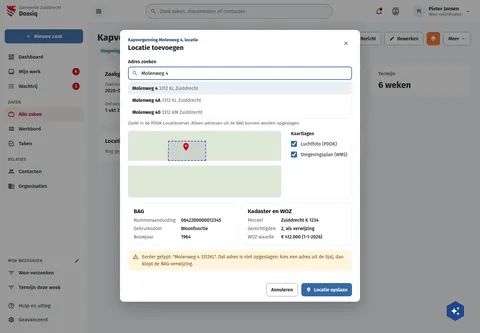
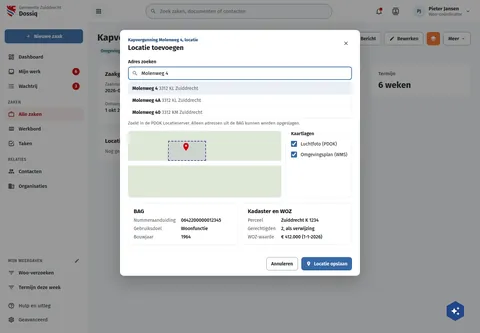
fix(screens): DqZaakLocatie draws no 'Eerder getypt' warning live cannot show
Assisted-by: ClaudeCode:claude-opus-5-5

Changed region(s): [[0.25, 0.7508, 0.75, 0.9309]]

diff --git a/preview/screens/boards/DqZaakLocatie.html b/preview/screens/boards/DqZaakLocatie.html
@@ -154,7 +154,7 @@ a{color:var(--sc-primary, #3669a5)}a:hover{color:var(--sc-primary-deep, #234a78)
         <div style="display: flex; flex-direction: column; gap: 4px"><span style="font-size: 13px; font-weight: 700; color: var(--sc-primary-deep, #234a78)">Kapvergunning Molenweg 4, locatie</span><h2 id="dlg-titel" style="margin: 0; font-size: 20px; font-weight: 700">Locatie toevoegen</h2></div>
         <button type="button" aria-label="Sluiten" style="width: 36px; height: 36px; border: 0; border-radius: 18px; background: transparent; color: var(--sc-work-text, #3d4047); display: inline-flex; align-items: center; justify-content: center"><svg width="18" height="18" viewbox="0 0 24 24" fill="currentColor" aria-hidden="true"><path d="M19,6.41L17.59,5L12,10.59L6.41,5L5,6.41L10.59,12L5,17.59L6.41,19L12,13.41L17.59,19L19,17.59L13.41,12L19,6.41Z"></path></svg></button>
       </div>
-      <div style="padding: 18px 24px 20px; display: flex; flex-direction: column; gap: 16px"><div style="display: flex; flex-direction: column; gap: 6px"><label style="font-size: 14px; font-weight: 600">Adres zoeken</label><div style="position: relative"><input type="search" value="Molenweg 4" style="box-sizing: border-box; width: 100%; height: 40px; padding: 0 12px 0 38px; border: 2px solid var(--sc-primary, #3669a5); border-radius: 8px; font: 400 15px var(--sc-font, 'Fira Sans'), sans-serif"><svg width="18" height="18" viewbox="0 0 24 24" fill="#5e6168" style="position: absolute; left: 12px; top: 11px;fill:var(--sc-work-muted, #5e6168)"><path d="M9.5,3A6.5,6.5 0 0,1 16,9.5C16,11.11 15.41,12.59 14.44,13.73L14.71,14H15.5L20.5,19L19,20.5L14,15.5V14.71L13.73,14.44C12.59,15.41 11.11,16 9.5,16A6.5,6.5 0 0,1 3,9.5A6.5,6.5 0 0,1 9.5,3M9.5,5C7,5 5,7 5,9.5C5,12 7,14 9.5,14C12,14 14,12 14,9.5C14,7 12,5 9.5,5Z"></path></svg></div><ul role="listbox" style="margin: 0; padding: 0; list-style: none; border: 1px solid var(--sc-work-line, #e4e6ea); border-radius: 8px; overflow: hidden"><li style="padding: 9px 12px; border-top: 1px solid var(--sc-work-soft, #eef0f3); background: var(--sc-primary-light, #eaf0f7); font-size: 14px"><strong>Molenweg 4</strong> <span style="color: var(--sc-work-muted, #5e6168)">3312 KL Zuiddrecht</span></li><li style="padding: 9px 12px; border-top: 1px solid var(--sc-work-soft, #eef0f3);  font-size: 14px"><strong>Molenweg 4A</strong> <span style="color: var(--sc-work-muted, #5e6168)">3312 KL Zuiddrecht</span></li><li style="padding: 9px 12px; border-top: 1px solid var(--sc-work-soft, #eef0f3);  font-size: 14px"><strong>Molenweg 40</strong> <span style="color: var(--sc-work-muted, #5e6168)">3312 KM Zuiddrecht</span></li></ul><span style="font-size: 13px; color: var(--sc-work-muted, #5e6168)">Zoekt in de PDOK Locatieserver. Alleen adressen uit de BAG kunnen worden opgeslagen.</span></div><div style="display: grid; grid-template-columns: minmax(0, 1fr) 200px; gap: 12px"><div role="img" aria-label="Kaart met het perceel Molenweg 4 en een pin" style="position: relative; height: 200px; border-radius: 8px; background: #dfe8d8; overflow: hidden"><span style="position: absolute; left: 0; right: 0; top: 90px; height: 14px; background: #ffffff"></span><span style="position: absolute; left: 120px; top: 30px; width: 110px; height: 56px; border: 2px dashed #4a3f8f; background: rgba(74,63,143,0.12)"></span><span style="position: absolute; left: 160px; top: 34px; color: var(--sc-accent, #cc0000)"><svg width="28" height="28" viewbox="0 0 24 24" fill="currentColor" aria-hidden="true"><path d="M12,11.5A2.5,2.5 0 0,1 9.5,9A2.5,2.5 0 0,1 12,6.5A2.5,2.5 0 0,1 14.5,9A2.5,2.5 0 0,1 12,11.5M12,2A7,7 0 0,0 5,9C5,14.25 12,22 12,22C12,22 19,14.25 19,9A7,7 0 0,0 12,2Z"></path></svg></span></div><fieldset style="margin: 0; padding: 10px 12px; border: 1px solid var(--sc-work-line, #e4e6ea); border-radius: 8px; display: flex; flex-direction: column; gap: 8px"><legend style="padding: 0 4px; font-size: 14px; font-weight: 600">Kaartlagen</legend><label style="display: flex; gap: 8px; align-items: center; font-size: 14px"><input type="checkbox" checked style="width: 18px; height: 18px; accent-color: var(--sc-primary, #3669a5)">Luchtfoto (PDOK)</label><label style="display: flex; gap: 8px; align-items: center; font-size: 14px"><input type="checkbox" checked style="width: 18px; height: 18px; accent-color: var(--sc-primary, #3669a5)">Omgevingsplan (WMS)</label></fieldset></div><div style="display: grid; grid-template-columns: repeat(auto-fit, minmax(200px, 1fr)); gap: 12px"><section style="background: #ffffff; border: 1px solid var(--sc-work-line, #e4e6ea); border-radius: 12px; padding: 14px 16px; display: flex; flex-direction: column; gap: 8px"><div style="display: flex; flex-wrap: wrap; justify-content: space-between; align-items: center; gap: 8px 12px"><div style="display: flex; flex-direction: column; gap: 2px"><h2 style="margin: 0; font-size: 17px; font-weight: 700">BAG</h2></div></div><dl style="margin: 0; display: grid; grid-template-columns: max-content 1fr; gap: 8px 16px; font-size: 14px"><dt style="color: var(--sc-work-muted, #5e6168)">Nummeraanduiding</dt><dd style="margin: 0; font-weight: 500">0642200000012345</dd><dt style="color: var(--sc-work-muted, #5e6168)">Gebruiksdoel</dt><dd style="margin: 0; font-weight: 500">Woonfunctie</dd><dt style="color: var(--sc-work-muted, #5e6168)">Bouwjaar</dt><dd style="margin: 0; font-weight: 500">1964</dd></dl></section><section style="background: #ffffff; border: 1px solid var(--sc-work-line, #e4e6ea); border-radius: 12px; padding: 14px 16px; display: flex; flex-direction: column; gap: 8px"><div style="display: flex; flex-wrap: wrap; justify-content: space-between; align-items: center; gap: 8px 12px"><div style="display: flex; flex-direction: column; gap: 2px"><h2 style="margin: 0; font-size: 17px; font-weight: 700">Kadaster en WOZ</h2></div></div><dl style="margin: 0; display: grid; grid-template-columns: max-content 1fr; gap: 8px 16px; font-size: 14px"><dt style="color: var(--sc-work-muted, #5e6168)">Perceel</dt><dd style="margin: 0; font-weight: 500">Zuiddrecht K 1234</dd><dt style="color: var(--sc-work-muted, #5e6168)">Gerechtigden</dt><dd style="margin: 0; font-weight: 500">2, als verwijzing</dd><dt style="color: var(--sc-work-muted, #5e6168)">WOZ-waarde</dt><dd style="margin: 0; font-weight: 500">€ 412.000 (1-1-2026)</dd></dl></section></div><div style="display: flex; gap: 10px; align-items: flex-start; padding: 10px 14px; border-radius: 10px; background: #fff4de; color: #7a4f00; font-size: 14px; line-height: 1.5"><span style="flex: none; margin-top: 1px"><svg width="18" height="18" viewbox="0 0 24 24" fill="currentColor" aria-hidden="true"><path d="M12,2L1,21H23M12,6L19.53,19H4.47M11,10V14H13V10M11,16V18H13V16"></path></svg></span><span>Eerder getypt: "Molenweg 4 3312KL". Dat adres is niet opgeslagen: kies een adres uit de lijst, dan klopt de BAG-verwijzing.</span></div></div>
+      <div style="padding: 18px 24px 20px; display: flex; flex-direction: column; gap: 16px"><div style="display: flex; flex-direction: column; gap: 6px"><label style="font-size: 14px; font-weight: 600">Adres zoeken</label><div style="position: relative"><input type="search" value="Molenweg 4" style="box-sizing: border-box; width: 100%; height: 40px; padding: 0 12px 0 38px; border: 2px solid var(--sc-primary, #3669a5); border-radius: 8px; font: 400 15px var(--sc-font, 'Fira Sans'), sans-serif"><svg width="18" height="18" viewbox="0 0 24 24" fill="#5e6168" style="position: absolute; left: 12px; top: 11px;fill:var(--sc-work-muted, #5e6168)"><path d="M9.5,3A6.5,6.5 0 0,1 16,9.5C16,11.11 15.41,12.59 14.44,13.73L14.71,14H15.5L20.5,19L19,20.5L14,15.5V14.71L13.73,14.44C12.59,15.41 11.11,16 9.5,16A6.5,6.5 0 0,1 3,9.5A6.5,6.5 0 0,1 9.5,3M9.5,5C7,5 5,7 5,9.5C5,12 7,14 9.5,14C12,14 14,12 14,9.5C14,7 12,5 9.5,5Z"></path></svg></div><ul role="listbox" style="margin: 0; padding: 0; list-style: none; border: 1px solid var(--sc-work-line, #e4e6ea); border-radius: 8px; overflow: hidden"><li style="padding: 9px 12px; border-top: 1px solid var(--sc-work-soft, #eef0f3); background: var(--sc-primary-light, #eaf0f7); font-size: 14px"><strong>Molenweg 4</strong> <span style="color: var(--sc-work-muted, #5e6168)">3312 KL Zuiddrecht</span></li><li style="padding: 9px 12px; border-top: 1px solid var(--sc-work-soft, #eef0f3);  font-size: 14px"><strong>Molenweg 4A</strong> <span style="color: var(--sc-work-muted, #5e6168)">3312 KL Zuiddrecht</span></li><li style="padding: 9px 12px; border-top: 1px solid var(--sc-work-soft, #eef0f3);  font-size: 14px"><strong>Molenweg 40</strong> <span style="color: var(--sc-work-muted, #5e6168)">3312 KM Zuiddrecht</span></li></ul><span style="font-size: 13px; color: var(--sc-work-muted, #5e6168)">Zoekt in de PDOK Locatieserver. Alleen adressen uit de BAG kunnen worden opgeslagen.</span></div><div style="display: grid; grid-template-columns: minmax(0, 1fr) 200px; gap: 12px"><div role="img" aria-label="Kaart met het perceel Molenweg 4 en een pin" style="position: relative; height: 200px; border-radius: 8px; background: #dfe8d8; overflow: hidden"><span style="position: absolute; left: 0; right: 0; top: 90px; height: 14px; background: #ffffff"></span><span style="position: absolute; left: 120px; top: 30px; width: 110px; height: 56px; border: 2px dashed #4a3f8f; background: rgba(74,63,143,0.12)"></span><span style="position: absolute; left: 160px; top: 34px; color: var(--sc-accent, #cc0000)"><svg width="28" height="28" viewbox="0 0 24 24" fill="currentColor" aria-hidden="true"><path d="M12,11.5A2.5,2.5 0 0,1 9.5,9A2.5,2.5 0 0,1 12,6.5A2.5,2.5 0 0,1 14.5,9A2.5,2.5 0 0,1 12,11.5M12,2A7,7 0 0,0 5,9C5,14.25 12,22 12,22C12,22 19,14.25 19,9A7,7 0 0,0 12,2Z"></path></svg></span></div><fieldset style="margin: 0; padding: 10px 12px; border: 1px solid var(--sc-work-line, #e4e6ea); border-radius: 8px; display: flex; flex-direction: column; gap: 8px"><legend style="padding: 0 4px; font-size: 14px; font-weight: 600">Kaartlagen</legend><label style="display: flex; gap: 8px; align-items: center; font-size: 14px"><input type="checkbox" checked style="width: 18px; height: 18px; accent-color: var(--sc-primary, #3669a5)">Luchtfoto (PDOK)</label><label style="display: flex; gap: 8px; align-items: center; font-size: 14px"><input type="checkbox" checked style="width: 18px; height: 18px; accent-color: var(--sc-primary, #3669a5)">Omgevingsplan (WMS)</label></fieldset></div><div style="display: grid; grid-template-columns: repeat(auto-fit, minmax(200px, 1fr)); gap: 12px"><section style="background: #ffffff; border: 1px solid var(--sc-work-line, #e4e6ea); border-radius: 12px; padding: 14px 16px; display: flex; flex-direction: column; gap: 8px"><div style="display: flex; flex-wrap: wrap; justify-content: space-between; align-items: center; gap: 8px 12px"><div style="display: flex; flex-direction: column; gap: 2px"><h2 style="margin: 0; font-size: 17px; font-weight: 700">BAG</h2></div></div><dl style="margin: 0; display: grid; grid-template-columns: max-content 1fr; gap: 8px 16px; font-size: 14px"><dt style="color: var(--sc-work-muted, #5e6168)">Nummeraanduiding</dt><dd style="margin: 0; font-weight: 500">0642200000012345</dd><dt style="color: var(--sc-work-muted, #5e6168)">Gebruiksdoel</dt><dd style="margin: 0; font-weight: 500">Woonfunctie</dd><dt style="color: var(--sc-work-muted, #5e6168)">Bouwjaar</dt><dd style="margin: 0; font-weight: 500">1964</dd></dl></section><section style="background: #ffffff; border: 1px solid var(--sc-work-line, #e4e6ea); border-radius: 12px; padding: 14px 16px; display: flex; flex-direction: column; gap: 8px"><div style="display: flex; flex-wrap: wrap; justify-content: space-between; align-items: center; gap: 8px 12px"><div style="display: flex; flex-direction: column; gap: 2px"><h2 style="margin: 0; font-size: 17px; font-weight: 700">Kadaster en WOZ</h2></div></div><dl style="margin: 0; display: grid; grid-template-columns: max-content 1fr; gap: 8px 16px; font-size: 14px"><dt style="color: var(--sc-work-muted, #5e6168)">Perceel</dt><dd style="margin: 0; font-weight: 500">Zuiddrecht K 1234</dd><dt style="color: var(--sc-work-muted, #5e6168)">Gerechtigden</dt><dd style="margin: 0; font-weight: 500">2, als verwijzing</dd><dt style="color: var(--sc-work-muted, #5e6168)">WOZ-waarde</dt><dd style="margin: 0; font-weight: 500">€ 412.000 (1-1-2026)</dd></dl></section></div></div>
       <div style="display: flex; justify-content: flex-end; gap: 10px; padding: 16px 24px; border-top: 1px solid var(--sc-work-soft, #eef0f3)"><button type="button" style="display: inline-flex; align-items: center; gap: 8px; height: 40px; padding: 0 14px; border-radius: 8px; font: 600 14px var(--sc-font, 'Fira Sans'), sans-serif; white-space: nowrap; border: 1px solid var(--sc-work-field, #828a95); background: #ffffff; color: var(--sc-work-ink, #1b1c1d);">Annuleren</button><button type="button" style="display: inline-flex; align-items: center; gap: 8px; height: 40px; padding: 0 14px; border-radius: 8px; font: 600 14px var(--sc-font, 'Fira Sans'), sans-serif; white-space: nowrap; border: 0; background: var(--sc-primary, #3669a5); color: #ffffff;"><svg width="16" height="16" viewbox="0 0 24 24" fill="currentColor" aria-hidden="true"><path d="M12,11.5A2.5,2.5 0 0,1 9.5,9A2.5,2.5 0 0,1 12,6.5A2.5,2.5 0 0,1 14.5,9A2.5,2.5 0 0,1 12,11.5M12,2A7,7 0 0,0 5,9C5,14.25 12,22 12,22C12,22 19,14.25 19,9A7,7 0 0,0 12,2Z"></path></svg>Locatie opslaan</button></div>
     </div>
   </div>

diff --git a/screens-src/zuiddrecht/DqZaakLocatie.dc.html b/screens-src/zuiddrecht/DqZaakLocatie.dc.html
@@ -36,7 +36,7 @@ a{color:#3669a5}a:hover{color:#234a78}
         <div style="display: flex; flex-direction: column; gap: 4px"><span style="font-size: 13px; font-weight: 700; color: #234a78">Kapvergunning Molenweg 4, locatie</span><h2 id="dlg-titel" style="margin: 0; font-size: 20px; font-weight: 700">Locatie toevoegen</h2></div>
         <button type="button" aria-label="Sluiten" style="width: 36px; height: 36px; border: 0; border-radius: 18px; background: transparent; color: #3d4047; display: inline-flex; align-items: center; justify-content: center"><svg width="18" height="18" viewBox="0 0 24 24" fill="currentColor" aria-hidden="true"><path d="M19,6.41L17.59,5L12,10.59L6.41,5L5,6.41L10.59,12L5,17.59L6.41,19L12,13.41L17.59,19L19,17.59L13.41,12L19,6.41Z"></path></svg></button>
       </div>
-      <div style="padding: 18px 24px 20px; display: flex; flex-direction: column; gap: 16px"><div style="display: flex; flex-direction: column; gap: 6px"><label style="font-size: 14px; font-weight: 600">Adres zoeken</label><div style="position: relative"><input type="search" value="Molenweg 4" style="box-sizing: border-box; width: 100%; height: 40px; padding: 0 12px 0 38px; border: 2px solid #3669a5; border-radius: 8px; font: 400 15px 'Fira Sans', sans-serif"><svg width="18" height="18" viewBox="0 0 24 24" fill="#5e6168" style="position: absolute; left: 12px; top: 11px"><path d="M9.5,3A6.5,6.5 0 0,1 16,9.5C16,11.11 15.41,12.59 14.44,13.73L14.71,14H15.5L20.5,19L19,20.5L14,15.5V14.71L13.73,14.44C12.59,15.41 11.11,16 9.5,16A6.5,6.5 0 0,1 3,9.5A6.5,6.5 0 0,1 9.5,3M9.5,5C7,5 5,7 5,9.5C5,12 7,14 9.5,14C12,14 14,12 14,9.5C14,7 12,5 9.5,5Z"></path></svg></div><ul role="listbox" style="margin: 0; padding: 0; list-style: none; border: 1px solid #e4e6ea; border-radius: 8px; overflow: hidden"><li style="padding: 9px 12px; border-top: 1px solid #eef0f3; background: #eaf0f7; font-size: 14px"><strong>Molenweg 4</strong> <span style="color: #5e6168">3312 KL Zuiddrecht</span></li><li style="padding: 9px 12px; border-top: 1px solid #eef0f3;  font-size: 14px"><strong>Molenweg 4A</strong> <span style="color: #5e6168">3312 KL Zuiddrecht</span></li><li style="padding: 9px 12px; border-top: 1px solid #eef0f3;  font-size: 14px"><strong>Molenweg 40</strong> <span style="color: #5e6168">3312 KM Zuiddrecht</span></li></ul><span style="font-size: 13px; color: #5e6168">Zoekt in de PDOK Locatieserver. Alleen adressen uit de BAG kunnen worden opgeslagen.</span></div><div style="display: grid; grid-template-columns: minmax(0, 1fr) 200px; gap: 12px"><div role="img" aria-label="Kaart met het perceel Molenweg 4 en een pin" style="position: relative; height: 200px; border-radius: 8px; background: #dfe8d8; overflow: hidden"><span style="position: absolute; left: 0; right: 0; top: 90px; height: 14px; background: #ffffff"></span><span style="position: absolute; left: 120px; top: 30px; width: 110px; height: 56px; border: 2px dashed #4a3f8f; background: rgba(74,63,143,0.12)"></span><span style="position: absolute; left: 160px; top: 34px; color: #cc0000"><svg width="28" height="28" viewBox="0 0 24 24" fill="currentColor" aria-hidden="true"><path d="M12,11.5A2.5,2.5 0 0,1 9.5,9A2.5,2.5 0 0,1 12,6.5A2.5,2.5 0 0,1 14.5,9A2.5,2.5 0 0,1 12,11.5M12,2A7,7 0 0,0 5,9C5,14.25 12,22 12,22C12,22 19,14.25 19,9A7,7 0 0,0 12,2Z"></path></svg></span></div><fieldset style="margin: 0; padding: 10px 12px; border: 1px solid #e4e6ea; border-radius: 8px; display: flex; flex-direction: column; gap: 8px"><legend style="padding: 0 4px; font-size: 14px; font-weight: 600">Kaartlagen</legend><label style="display: flex; gap: 8px; align-items: center; font-size: 14px"><input type="checkbox" checked style="width: 18px; height: 18px; accent-color: #3669a5">Luchtfoto (PDOK)</label><label style="display: flex; gap: 8px; align-items: center; font-size: 14px"><input type="checkbox" checked style="width: 18px; height: 18px; accent-color: #3669a5">Omgevingsplan (WMS)</label></fieldset></div><div style="display: grid; grid-template-columns: repeat(auto-fit, minmax(200px, 1fr)); gap: 12px"><section style="background: #ffffff; border: 1px solid #e4e6ea; border-radius: 12px; padding: 14px 16px; display: flex; flex-direction: column; gap: 8px"><div style="display: flex; flex-wrap: wrap; justify-content: space-between; align-items: center; gap: 8px 12px"><div style="display: flex; flex-direction: column; gap: 2px"><h2 style="margin: 0; font-size: 17px; font-weight: 700">BAG</h2></div></div><dl style="margin: 0; display: grid; grid-template-columns: max-content 1fr; gap: 8px 16px; font-size: 14px"><dt style="color: #5e6168">Nummeraanduiding</dt><dd style="margin: 0; font-weight: 500">0642200000012345</dd><dt style="color: #5e6168">Gebruiksdoel</dt><dd style="margin: 0; font-weight: 500">Woonfunctie</dd><dt style="color: #5e6168">Bouwjaar</dt><dd style="margin: 0; font-weight: 500">1964</dd></dl></section><section style="background: #ffffff; border: 1px solid #e4e6ea; border-radius: 12px; padding: 14px 16px; display: flex; flex-direction: column; gap: 8px"><div style="display: flex; flex-wrap: wrap; justify-content: space-between; align-items: center; gap: 8px 12px"><div style="display: flex; flex-direction: column; gap: 2px"><h2 style="margin: 0; font-size: 17px; font-weight: 700">Kadaster en WOZ</h2></div></div><dl style="margin: 0; display: grid; grid-template-columns: max-content 1fr; gap: 8px 16px; font-size: 14px"><dt style="color: #5e6168">Perceel</dt><dd style="margin: 0; font-weight: 500">Zuiddrecht K 1234</dd><dt style="color: #5e6168">Gerechtigden</dt><dd style="margin: 0; font-weight: 500">2, als verwijzing</dd><dt style="color: #5e6168">WOZ-waarde</dt><dd style="margin: 0; font-weight: 500">€ 412.000 (1-1-2026)</dd></dl></section></div><div style="display: flex; gap: 10px; align-items: flex-start; padding: 10px 14px; border-radius: 10px; background: #fff4de; color: #7a4f00; font-size: 14px; line-height: 1.5"><span style="flex: none; margin-top: 1px"><svg width="18" height="18" viewBox="0 0 24 24" fill="currentColor" aria-hidden="true"><path d="M12,2L1,21H23M12,6L19.53,19H4.47M11,10V14H13V10M11,16V18H13V16"></path></svg></span><span>Eerder getypt: "Molenweg 4 3312KL". Dat adres is niet opgeslagen: kies een adres uit de lijst, dan klopt de BAG-verwijzing.</span></div></div>
+      <div style="padding: 18px 24px 20px; display: flex; flex-direction: column; gap: 16px"><div style="display: flex; flex-direction: column; gap: 6px"><label style="font-size: 14px; font-weight: 600">Adres zoeken</label><div style="position: relative"><input type="search" value="Molenweg 4" style="box-sizing: border-box; width: 100%; height: 40px; padding: 0 12px 0 38px; border: 2px solid #3669a5; border-radius: 8px; font: 400 15px 'Fira Sans', sans-serif"><svg width="18" height="18" viewBox="0 0 24 24" fill="#5e6168" style="position: absolute; left: 12px; top: 11px"><path d="M9.5,3A6.5,6.5 0 0,1 16,9.5C16,11.11 15.41,12.59 14.44,13.73L14.71,14H15.5L20.5,19L19,20.5L14,15.5V14.71L13.73,14.44C12.59,15.41 11.11,16 9.5,16A6.5,6.5 0 0,1 3,9.5A6.5,6.5 0 0,1 9.5,3M9.5,5C7,5 5,7 5,9.5C5,12 7,14 9.5,14C12,14 14,12 14,9.5C14,7 12,5 9.5,5Z"></path></svg></div><ul role="listbox" style="margin: 0; padding: 0; list-style: none; border: 1px solid #e4e6ea; border-radius: 8px; overflow: hidden"><li style="padding: 9px 12px; border-top: 1px solid #eef0f3; background: #eaf0f7; font-size: 14px"><strong>Molenweg 4</strong> <span style="color: #5e6168">3312 KL Zuiddrecht</span></li><li style="padding: 9px 12px; border-top: 1px solid #eef0f3;  font-size: 14px"><strong>Molenweg 4A</strong> <span style="color: #5e6168">3312 KL Zuiddrecht</span></li><li style="padding: 9px 12px; border-top: 1px solid #eef0f3;  font-size: 14px"><strong>Molenweg 40</strong> <span style="color: #5e6168">3312 KM Zuiddrecht</span></li></ul><span style="font-size: 13px; color: #5e6168">Zoekt in de PDOK Locatieserver. Alleen adressen uit de BAG kunnen worden opgeslagen.</span></div><div style="display: grid; grid-template-columns: minmax(0, 1fr) 200px; gap: 12px"><div role="img" aria-label="Kaart met het perceel Molenweg 4 en een pin" style="position: relative; height: 200px; border-radius: 8px; background: #dfe8d8; overflow: hidden"><span style="position: absolute; left: 0; right: 0; top: 90px; height: 14px; background: #ffffff"></span><span style="position: absolute; left: 120px; top: 30px; width: 110px; height: 56px; border: 2px dashed #4a3f8f; background: rgba(74,63,143,0.12)"></span><span style="position: absolute; left: 160px; top: 34px; color: #cc0000"><svg width="28" height="28" viewBox="0 0 24 24" fill="currentColor" aria-hidden="true"><path d="M12,11.5A2.5,2.5 0 0,1 9.5,9A2.5,2.5 0 0,1 12,6.5A2.5,2.5 0 0,1 14.5,9A2.5,2.5 0 0,1 12,11.5M12,2A7,7 0 0,0 5,9C5,14.25 12,22 12,22C12,22 19,14.25 19,9A7,7 0 0,0 12,2Z"></path></svg></span></div><fieldset style="margin: 0; padding: 10px 12px; border: 1px solid #e4e6ea; border-radius: 8px; display: flex; flex-direction: column; gap: 8px"><legend style="padding: 0 4px; font-size: 14px; font-weight: 600">Kaartlagen</legend><label style="display: flex; gap: 8px; align-items: center; font-size: 14px"><input type="checkbox" checked style="width: 18px; height: 18px; accent-color: #3669a5">Luchtfoto (PDOK)</label><label style="display: flex; gap: 8px; align-items: center; font-size: 14px"><input type="checkbox" checked style="width: 18px; height: 18px; accent-color: #3669a5">Omgevingsplan (WMS)</label></fieldset></div><div style="display: grid; grid-template-columns: repeat(auto-fit, minmax(200px, 1fr)); gap: 12px"><section style="background: #ffffff; border: 1px solid #e4e6ea; border-radius: 12px; padding: 14px 16px; display: flex; flex-direction: column; gap: 8px"><div style="display: flex; flex-wrap: wrap; justify-content: space-between; align-items: center; gap: 8px 12px"><div style="display: flex; flex-direction: column; gap: 2px"><h2 style="margin: 0; font-size: 17px; font-weight: 700">BAG</h2></div></div><dl style="margin: 0; display: grid; grid-template-columns: max-content 1fr; gap: 8px 16px; font-size: 14px"><dt style="color: #5e6168">Nummeraanduiding</dt><dd style="margin: 0; font-weight: 500">0642200000012345</dd><dt style="color: #5e6168">Gebruiksdoel</dt><dd style="margin: 0; font-weight: 500">Woonfunctie</dd><dt style="color: #5e6168">Bouwjaar</dt><dd style="margin: 0; font-weight: 500">1964</dd></dl></section><section style="background: #ffffff; border: 1px solid #e4e6ea; border-radius: 12px; padding: 14px 16px; display: flex; flex-direction: column; gap: 8px"><div style="display: flex; flex-wrap: wrap; justify-content: space-between; align-items: center; gap: 8px 12px"><div style="display: flex; flex-direction: column; gap: 2px"><h2 style="margin: 0; font-size: 17px; font-weight: 700">Kadaster en WOZ</h2></div></div><dl style="margin: 0; display: grid; grid-template-columns: max-content 1fr; gap: 8px 16px; font-size: 14px"><dt style="color: #5e6168">Perceel</dt><dd style="margin: 0; font-weight: 500">Zuiddrecht K 1234</dd><dt style="color: #5e6168">Gerechtigden</dt><dd style="margin: 0; font-weight: 500">2, als verwijzing</dd><dt style="color: #5e6168">WOZ-waarde</dt><dd style="margin: 0; font-weight: 500">€ 412.000 (1-1-2026)</dd></dl></section></div></div>
       <div style="display: flex; justify-content: flex-end; gap: 10px; padding: 16px 24px; border-top: 1px solid #eef0f3"><button type="button" style="display: inline-flex; align-items: center; gap: 8px; height: 40px; padding: 0 14px; border-radius: 8px; font: 600 14px 'Fira Sans', sans-serif; white-space: nowrap; border: 1px solid #828a95; background: #ffffff; color: #1b1c1d;">Annuleren</button><button type="button" style="display: inline-flex; align-items: center; gap: 8px; height: 40px; padding: 0 14px; border-radius: 8px; font: 600 14px 'Fira Sans', sans-serif; white-space: nowrap; border: 0; background: #3669a5; color: #ffffff;"><svg width="16" height="16" viewBox="0 0 24 24" fill="currentColor" aria-hidden="true"><path d="M12,11.5A2.5,2.5 0 0,1 9.5,9A2.5,2.5 0 0,1 12,6.5A2.5,2.5 0 0,1 14.5,9A2.5,2.5 0 0,1 12,11.5M12,2A7,7 0 0,0 5,9C5,14.25 12,22 12,22C12,22 19,14.25 19,9A7,7 0 0,0 12,2Z"></path></svg>Locatie opslaan</button></div>
     </div>
   </div>
